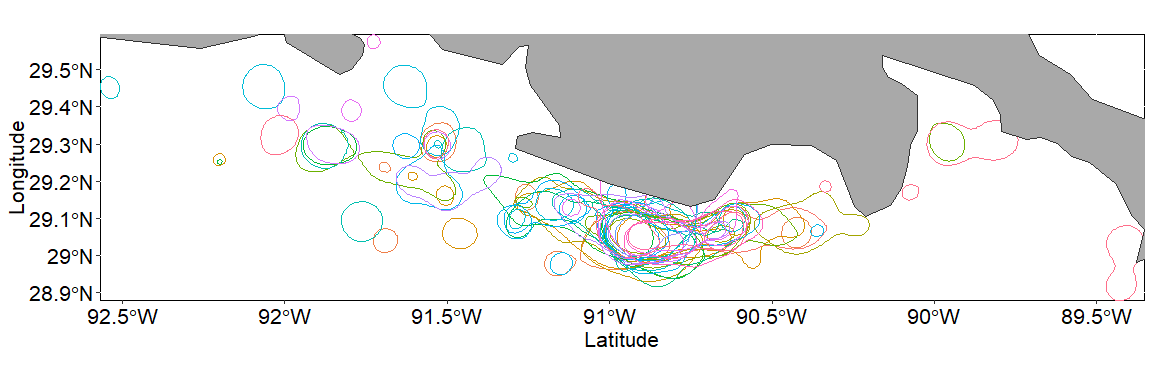
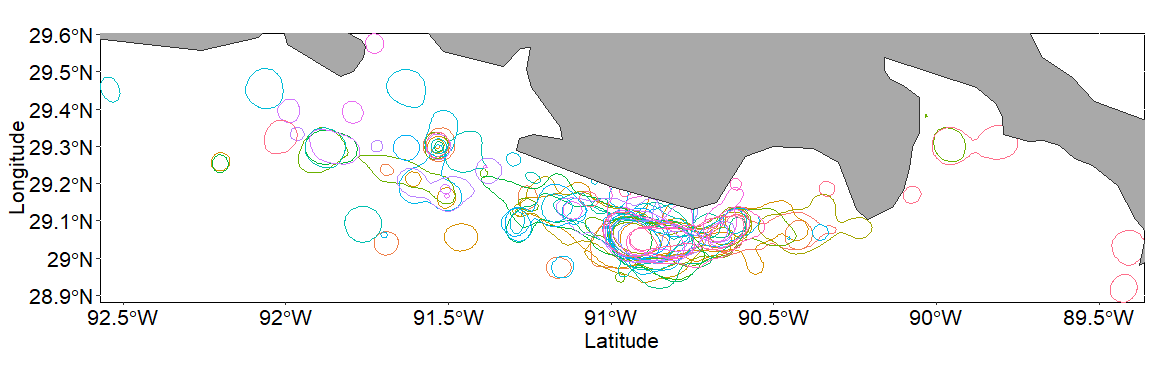
Add vignette/ folder, update documentation

diff --git a/README.md b/README.md
@@ -3,9 +3,7 @@
 track2KBA
 =========
 
-<!-- badges: start -->
-<!-- badges: end -->
-This package is comprised of functions that facilitate the identification of (marine) Important Bird and Biodiversity Areas (IBAs) and Key Biodiversity Areas (KBAs) based on individual tracking data. Key functions include utilities to identify and summarise individual foraging trips, estimate utilization distributions, and overlay distributions to identify important aggregation areas. Utility functions to download Movebank data, format data, as well as to assess sample representativeness, and space use independence are also included.
+This package is comprised of functions that facilitate the identification of areas of importance for biodiversity, such as Key Biodiversity Areas (KBAs) or Ecologically or Biologically Significant Areas (EBSAs), based on individual tracking data. Key functions include utilities to identify and summarise individual foraging trips, estimate utilization distributions, and overlay distributions to identify important aggregation areas. Utility functions are also included to download Movebank data, format data sets, as well functions to assess sample representativeness and space use independence.
 
 Installation
 ------------
@@ -20,7 +18,7 @@ devtools::install_github("steffenoppel/track2iba", auth_key=ASK MARTIN FOR THIS!
 Example
 -------
 
-A common problem faced when using existing R tools, is the initial data wrangling necessary to get your data formatted correctly to fit the functions you want to use. The `formatFields` function allows you to specify which columns correspond to those necessary for track2KBA analysis; these are datetime field, latitude and longitude fields, and an ID field (i.e. individual animal, track, or trip).
+The `formatFields` function allows you to specify which columns correspond to those necessary for track2KBA analysis; these are datetime field, latitude and longitude fields, and an ID field (i.e. individual animal, track, or trip).
 
 In this example, we use a publicly available GPS dataset of Brown Pelicans, published in Geary et al. 2018, and stored in Movebank's data repository (<https://www.datarepository.movebank.org/>).
 
@@ -43,7 +41,7 @@ tracks_formatted <- formatFields(tracks,
 ## basic example code
 ```
 
-If your data come from a species which makes trips out from a centrally-located place, such as a nest in the case of a bird, or a beach colony in the case of a fur seal or sea turtle, you can use `tripSplit` to split up the data into discrete trips.
+If your data come from a species which makes trips out from a centrally-located place, such as a nest in the case of a bird, or a beach colony in the case of a pinniped, you can use `tripSplit` to split up the data into discrete trips.
 
 In order to do this, you must identify the location of the central place (e.g. nest or colony). In this case, we will use the first recorded location in the data, which is presumably from the capture location at the colony (**this could be wrong for these data though...**).
 
@@ -111,7 +109,7 @@ Now that we have an idea how the animals are moving, we can start with the proce
 
 `findScale` provides us with options for setting the all-important smoothing parameter in the Kernel Density Estimation.
 
-If we know our animal uses area-restricted search to locate prey, then we can set the *ARSscale* argument to TRUE. This will use First Passage Time analysis to identify the spatial scale at which area-restricted search is occuring.
+If we know our animal uses area-restricted search to locate prey, then we can set the `ARSscale=T`. This will use First Passage Time analysis to identify the spatial scale at which area-restricted search is occuring.
 
 ``` r
 HVALS <- findScale(trips,
@@ -120,52 +118,59 @@ HVALS <- findScale(trips,
   Trips_summary = tripSum)
 
 HVALS
-#>   med_max_dist  mag half_mag href ARSscale
-#> 1        19.37 5.24      3.7 5.49       NA
+#>   med_max_dist  mag scaled_mag href ARSscale
+#> 1        19.37 2.96       6.54 5.49       NA
 ```
 
-The other values calculated relate to the number of points in the data (href) and to the average foraging range (med\_max\_dist) estimated from the trips present in the data (mag and half\_mag).
+The other values calculated relate to the number of points in the data (`href`) and to the average foraging range (`med_max_dist`) estimated from the trips present in the data (`mag` and `scaled_mag`).
 
 Then, we select a smoothing parameter value, based on our understanding of the species movement ecology, as well as our understanding of the management context within which these movements occur.
 
-(*IndEffectTest here. Doesn't work well, \[long run time\] with this many individual, GPS-data\]*)
+(*IndEffectTest here. Doesn't work well, \[long run time\] with these many individual, GPS-data\]*)
 
 Using this smoothing value, we can run Kernel Density Estimation for each individual, with `estSpaceUse`. We need to specify the isopleth at which level we want to use utilisation distributions - this is by default set to 50, as the 50% utilisation distribution (where an animal spends about half of its time) is commonly used to define an animal's 'core range' (Lascelles et al. 2016).
 
 ``` r
 KDEs <- estSpaceUse(
   DataGroup = trips, 
-  Scale = HVALS$half_mag, 
+  Scale = HVALS$mag, 
   UDLev = 50, 
   polyOut = T)
-#> Warning in estSpaceUse(DataGroup = trips, Scale = HVALS$half_mag, UDLev = 50, : No grid resolution ('Res') was specified, or the specified resolution was >99 km and therefore ignored.
-#>                   Space use was calculated on a 500-cell grid, with cells of 0.725 square km
+#> Warning in estSpaceUse(DataGroup = trips, Scale = HVALS$mag, UDLev = 50, : No grid resolution ('Res') was specified, or the specified resolution was >99 km and therefore ignored.
+#>                   Space use was calculated on a 500-cell grid, with cells of 0.719 square km
 ```
 
 <img src="man/figures/README-estSpaceUse-1.png" width="100%" />
 
-This gives us an estimate of the core areas in which each individual spends half of its time while on foraging trips. At this step we should verify that the smoothing parameter value we selected is producing reasonable space use estimates, given what we know about our study animals.
+This gives us an estimate of the core areas in which each individual spends time while on foraging trips. At this step we should verify that the smoothing parameter value we selected is producing reasonable space use estimates, given what we know about our study animals.
 
-The next step is to estimate to what degree this tracked sample is representative of the larger population. That is, how well does the variation in space use of these individuals encapsulate the wider population-level variation? To do this we use the `repAssess` function. This function repeatedly (the number you specify in `Iteration`) samples a number of individual home ranges and quantifies how many locations of the unselected individuals fall within those home ranges. This process is repeated for each sample size from 1 to the total number of individuals in the study.
+The next step is to estimate to what degree this tracked sample is representative of the larger population. That is, how well does the variation in space use of these tracked individuals encapsulate variation in the wider population? To do this, we use the `repAssess` function. This function repeatedly samples a number of individual home ranges, averages them together, and quantifies how many locations from the unselected individuals fall within this combined home range area. This process is repeated for each sample size, and iterated a chosen number of time, from 1 to the 1 less than the total number of individuals in the study sample.
+
+To speed up this procedure, we can supply the results of `estSpaceUse`, which will be randomly sampled and recombined in each iteration. We choose the number of times we want to re-sample at each sample size by setting the `Iteration` argument.
 
 ``` r
-repr <- repAssess(trips, Scale=HVALS$half_mag, Iteration=100, BootTable = F, Ncores = 5)
+repr <- repAssess(trips, Scale=HVALS$mag, Iteration=100, BootTable = F, Ncores = 5)
 #> Warning in estSpaceUse(DataGroup = TripCoords, Scale = Scale, Res = Res, : No grid resolution ('Res') was specified, or the specified resolution was >99 km and therefore ignored.
-#>                   Space use was calculated on a 500-cell grid, with cells of 0.725 square km
+#>                   Space use was calculated on a 500-cell grid, with cells of 0.719 square km
 #> [1] "nls (non linear regression) successful, asymptote estimated for bootstrap sample."
 ```
 
-The figure shows the relationship between sample size and the inclusion of un-tested animals' space use areas in those of the test sample's space use. By quantifying this across a range of different sample sizes, we can estimate how close we are to a space use asymptote. Put another way, we estimate how much new space use information would be added by including more animals in the sample. In the case of this Brown Pelican dataset, we estimate that ~97% of the space used by this population is captured by our sample of 29 individuals. Highly representative!
+The output is a table, with the estimated percentage of representativeness given in the `out` column.
+
+The relationship between sample size and the inclusion of un-tested animals' space use areas is visualized via this automatic output plot, which is saved to the working directoty (i.e. `getwd()`). By quantifying this relationship across a range of different sample sizes, we can estimate how close we are to an information asymptote. Put another way, we estimate how much new space use information would be added by including more animals in the sample. In the case of this Brown Pelican dataset, we estimate that ~97% of the space used by this population is captured by the sample of 29 individuals. Highly representative!
 
 <img src="man/figures/repAssess_output_BrownPelicans.png" width="100%" height="10%" />
 
-Using the individual space use estimates, we can now calculate where individuals overlap in space. Then, by including the representativeness value, we can estimate the proportion of the larger population using a given area. Or if we have population size estimates, we can also include this value to output a number of individuals aggregating in a given space (which can then be compared against KBA criteria).
+Using the space use estimates of each individual, we can now calculate where they overlap in space. Then, by including the representativeness value, we can estimate the proportion of the larger population using a given area and check whether this proportion meets threshold of importance at the population level. Here, if we have population size estimates, we can include this value to output a number of individuals aggregating in a given space instead of proportions, which can then use to compare against importance criteria (i.e KBA, EBSA criteria).
+
+If you desire polygon output, instead of a raster surface, you can indicate this using the `polyOut` argument. This aggregates all cells with the same estimated number of individuals into to sinlgle polygons. If you stipulate `plotit=T` a plot will be produced (as below) showing all the polygons which meet the threshold proportion of birds using the area. If instead you just want the raster density distribution surface, simply use `plotit=F`.
 
 ``` r
 KBAs <- findKBA(
-  KDE.Surface = KDEs, 
-  Represent = repr$out, 
-  UDLev = 50, 
+  KDE.Surface = KDEs,
+  Represent = repr$out,
+  UDLev = 50,
+  polyOut = T,
   plotit = T)
 #> Warning in findKBA(KDE.Surface = KDEs, Represent = repr$out, UDLev = 50, :
 #> No value for colony size provided. Output for N_animals is in % of colony
@@ -175,3 +180,7 @@ KBAs <- findKBA(
 ```
 
 <img src="man/figures/README-findKBA-1.png" width="100%" />
+
+Since the output is in Simple Features (sf) visualizing these data is simple.
+
+To visualize either the polygons or the density surface. just use `plot(KBA)`.
